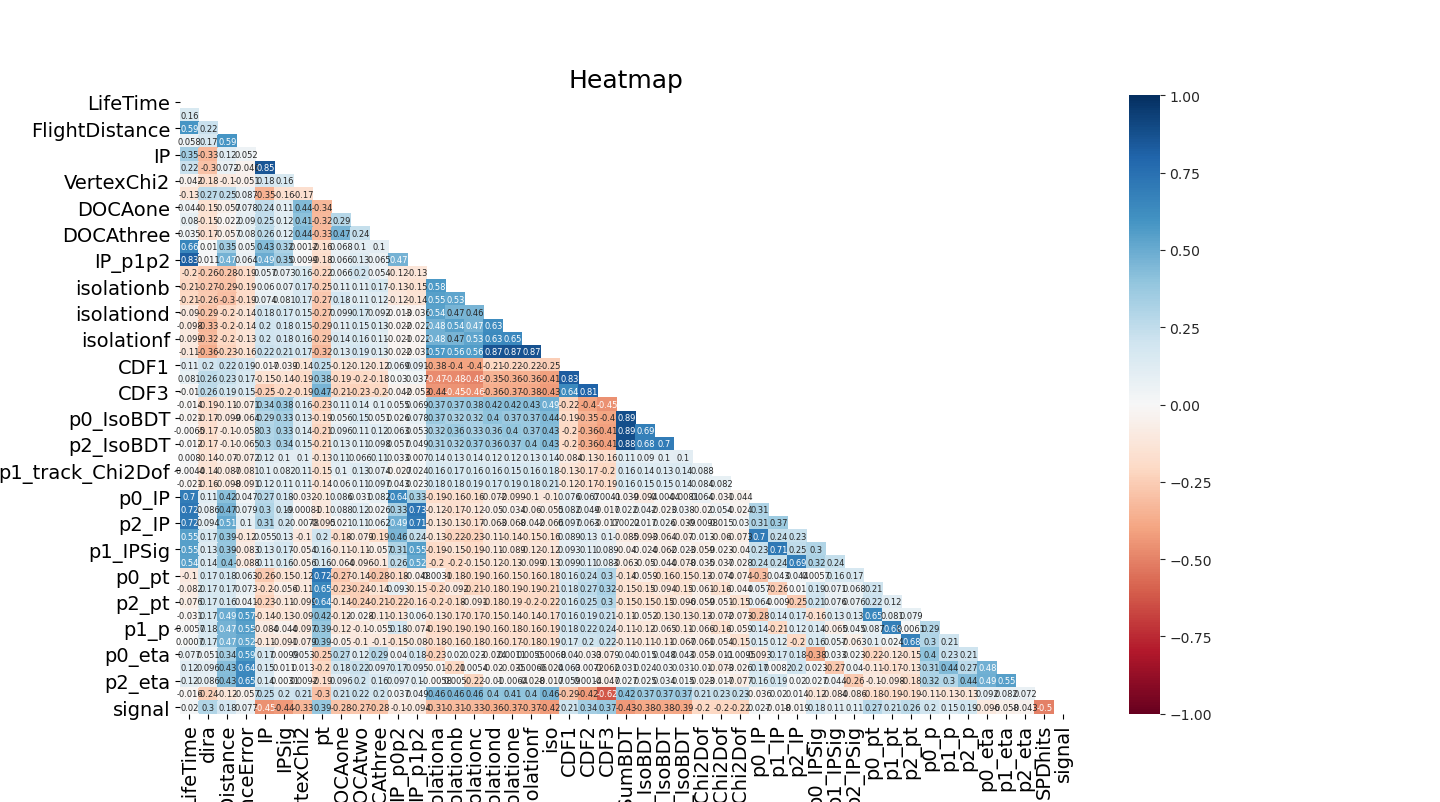
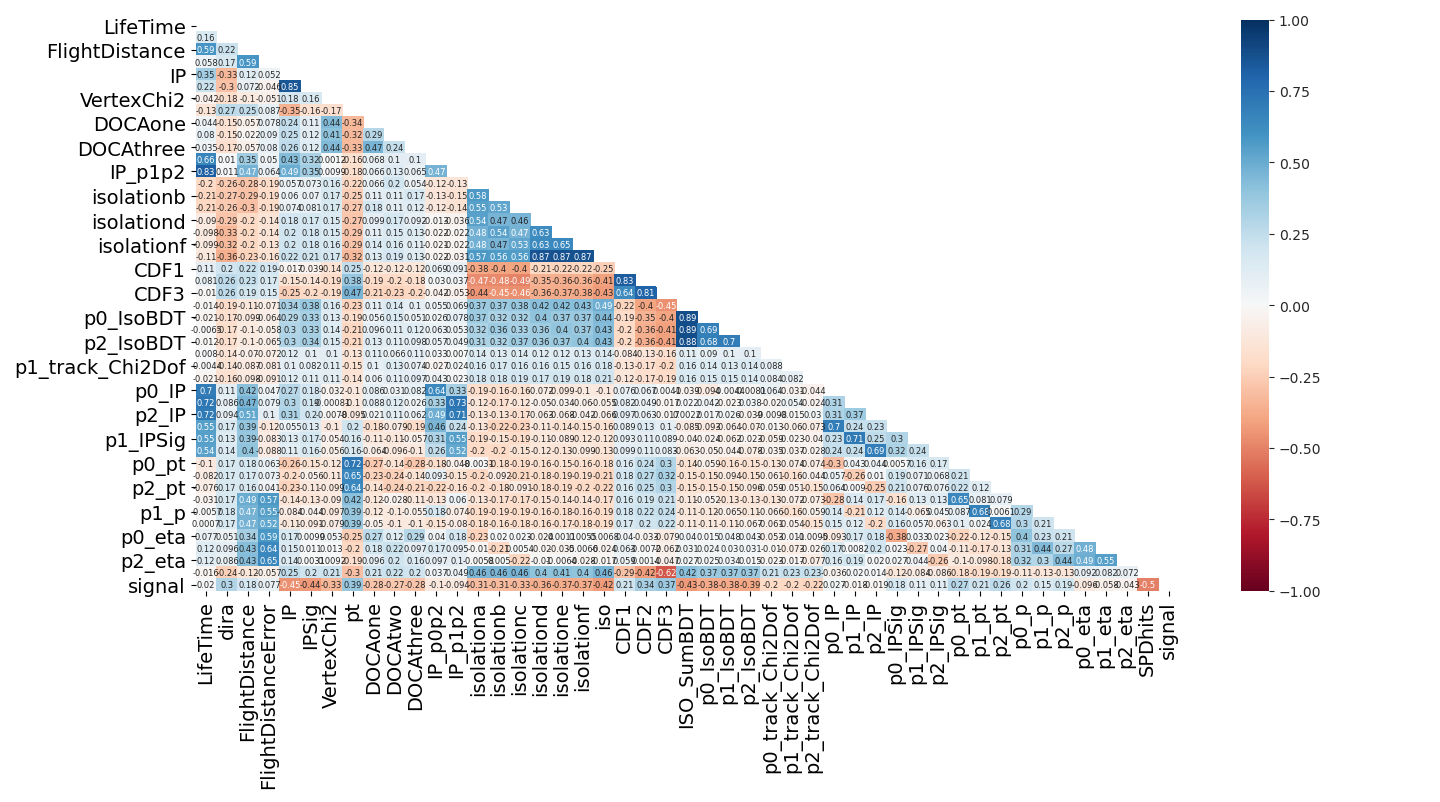
Update data exploration

diff --git a/data_exploration.py b/data_exploration.py
@@ -2,7 +2,7 @@ import matplotlib.pyplot as plt
 import mypy
 import pandas as pd
 import seaborn as sns
-from sklearn.preprocessing import StandardScaler
+from sklearn.preprocessing import StandardScaler, RobustScaler
 
 from utils import plot_3pca_components, plot_heatmap
 
@@ -16,7 +16,7 @@ def main():
     len(df) - len(df.dropna())
 
     # check data types of columns
-    df.dtypes
+    print(df.dtypes)
 
     # check if the dataset is balanced
     # check couts of values
@@ -31,10 +31,13 @@ def main():
 
     # check correlations
     # describe
-    df.describe()
+    print(df.describe())
 
     # plot correlation heatmap
-    plot_heatmap(df=df, columns=df.columns, figsize=(20, 20), annot_fontsize=6)
+    scaler = RobustScaler()
+    df_scaled = scaler.fit_transform(df)
+    df_scaled = pd.DataFrame(data=df_scaled, columns=df.columns)
+    plot_heatmap(df=df_scaled, columns=df.columns, figsize=(20, 20), annot_fontsize=6, title="")
     plt.tight_layout()
     plt.savefig("images/features_correlation_heatmap.png")
 

diff --git a/project_report.md b/project_report.md
@@ -92,37 +92,35 @@ This is a labeled dataset of 16.410 samples and 46 features, which are described
 * SPDhits - Number of hits in the SPD detector.
 * signal - This is the target variable.
 
-
 The dataset is balanced, with 8.205 signal events and 8.205 background events. A simple count plot is below:
 <div align="center">
 <img src="https://raw.githubusercontent.com/Punchyou/flavors_of_physics_Ds_decay/master/images/signal_value_counts.png" alt="drawing" width="400"/>
 </div>
 
-To have a better understanding of the data, I used [PCA](https://towardsdatascience.com/understand-your-data-with-principle-component-analysis-pca-and-discover-underlying-patterns-d6cadb020939) to reduce the dimention of the dataset and to be able to visualize in 3 dimentions. The method captures the maximum variance across the features and projects observations onto mutually uncorrelated vectors (components). Still, PCA serves other purposes than dimensionality reduction. It also helps to discover underlying patterns across features. Though it is a common algorithm before implementing clustering algorithms, I only use it here to get an idea of how the data look like in fewer dimensions.
+To have a better understanding of the data, I used [PCA](https://towardsdatascience.com/understand-your-data-with-principle-component-analysis-pca-and-discover-underlying-patterns-d6cadb020939) to reduce the dimentions of the dataset and to be able to visualize them in 3 dimentions. PCA method captures the maximum variance across the features and projects observations onto mutually uncorrelated vectors (components). Although it is used for dimensionality reduction, it also helps to discover underlying patterns across features. It is a common algorithm dimentionality reduction before implementing clustering algorithms, but I use it here to get an idea of how the data look like in fewer dimensions. The PCA plot of the data follows.
 
-TODO: add pca comments
 <div align="center">
 <img src="https://raw.githubusercontent.com/Punchyou/flavors_of_physics_Ds_decay/master/images/pca_binary_scatter_3d_plot.png" alt="drawing" width="800"/>
 </div>
 
-TODO: add features distributions comments
+My intention for this plot was to see if I can clearly spot two seperate blobs of data, so a clear seperation between the signal and background events. However, this is something that is visible for this plot 3D plot.
+
+To take a loser look the features, I plotted the distribution of each attribute by discretization the values into buckets and review the frequency in each bucket as histograms. Most of the features are not normally distributed, so the dataset provides a good candidate for scaling the data, for example with a robust scaler transform to standardize the data in the presence of skewed distributions and outliers.
+
 <div align="center">
 <img src="https://raw.githubusercontent.com/Punchyou/flavors_of_physics_Ds_decay/master/images/features_distributions.png" alt="drawing" width="700"/>
 </div>
 
-TODO: add heatmap for correlations
+The following heatmap shows how linearly correlated the features are. The annotated numbers show the Pearson correlation coefficients. This is a common method intended to reduce the number of input variables to those that are believed to be most useful to a model in order to predict the target variable. Pearson correlation assumes a Gaussian probability distribution to the observations and a linear relationship, so I have scaled the data with a robust scaler transform before calculating the correlations between the features. The highest coefficients are below 0.9, so the feature are not perfectly correlated with each other.
+
 <div align="center">
 <img src="https://raw.githubusercontent.com/Punchyou/flavors_of_physics_Ds_decay/master/images/features_correlation_heatmap.png" alt="drawing" width="700"/>
 </div>
-
-
-TODO: add data exploration file: https://github.com/Punchyou/flavors_of_physics_Ds_decay/blob/master/data_exploration.py
 
 TODO: There are not nan values in the dataset.
 TODO: mention where to find the dataset from the github repo
 TODO: Add the distribution of data and say they need scaling!!
 TODO: add:  "in case the data behave badly when individual features do not are not normally distributed (see the distribution of the features plots above)."
-TODO: "The dataset provides a good candidate for using a robust scaler transform to standardize the data in the presence of skewed distributions and outliers."
 
 TODO: The dataset has been resampled, due to the amount of the first dataset, only the resampled dataset is present in the project. The code used for resampling is the following:
 ```py
@@ -149,7 +147,7 @@ This curve quantifies how much of the total, 64-dimensional variance is containe
 
 
 
-
+> *All the plots in this section are generated by executing the [data_exploration](https://github.com/Punchyou/flavors_of_physics_Ds_decay/blob/master/data_exploration.py) python file.*
 ## Algorithms Implementation
 
 This is a supervised binary classification problem, so the solution will be the output of a binary classifier. There is no constrain in using any classifier in particular for this problem. However, in the [evaluation description](https://www.kaggle.com/c/flavours-of-physics/overview/agreement-test) of the Kaggle competition described so far, it is mentioned that the [Kolmogorov–Smirnov (KS)](https://en.wikipedia.org/wiki/Kolmogorov%E2%80%93Smirnov_test) test is used to evaluate the differences between the classifier distribution and the true *signal* values distribution. Also, the KS test should be less than 0.09.
@@ -273,6 +271,9 @@ TODO: Add a structure of the project in README
 * https://www.kaggle.com/nanomathias/bayesian-optimization-of-xgboost-lb-0-9769
 * https://machinelearningmastery.com/robust-scaler-transforms-for-machine-learning/
 * https://machinelearningmastery.com/hyperparameter-optimization-with-random-search-and-grid-search/
+* https://machinelearningmastery.com/quick-and-dirty-data-analysis-with-pandas/
+* https://machinelearningmastery.com/feature-selection-with-real-and-categorical-data/
+* https://towardsdatascience.com/feature-selection-correlation-and-p-value-da8921bfb3cf
 
 Books:
 Data Science from Scratch
